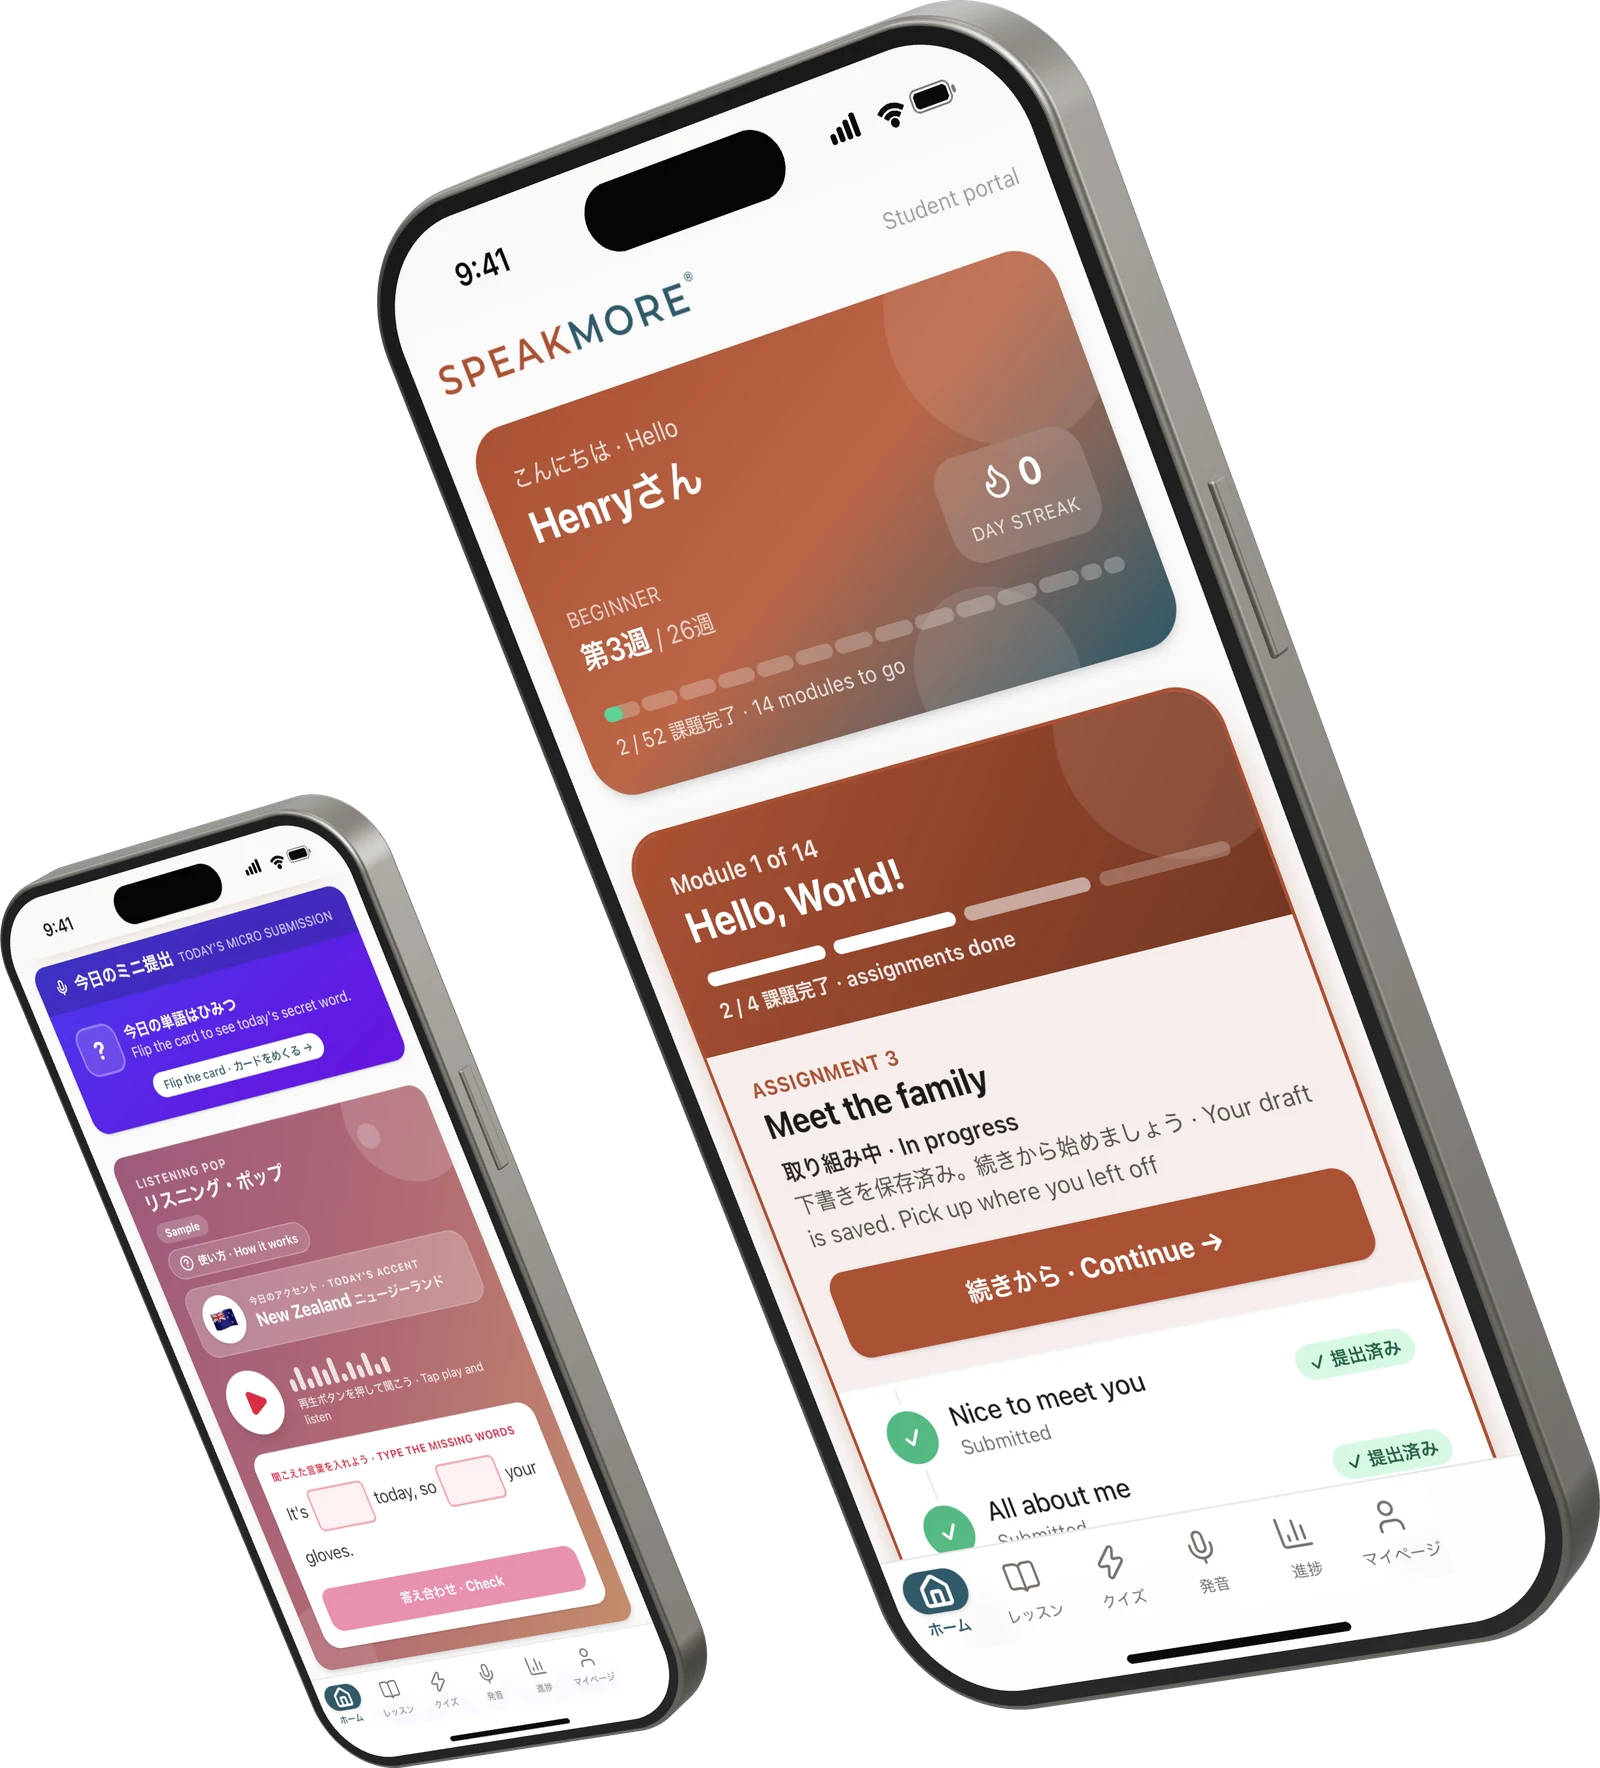
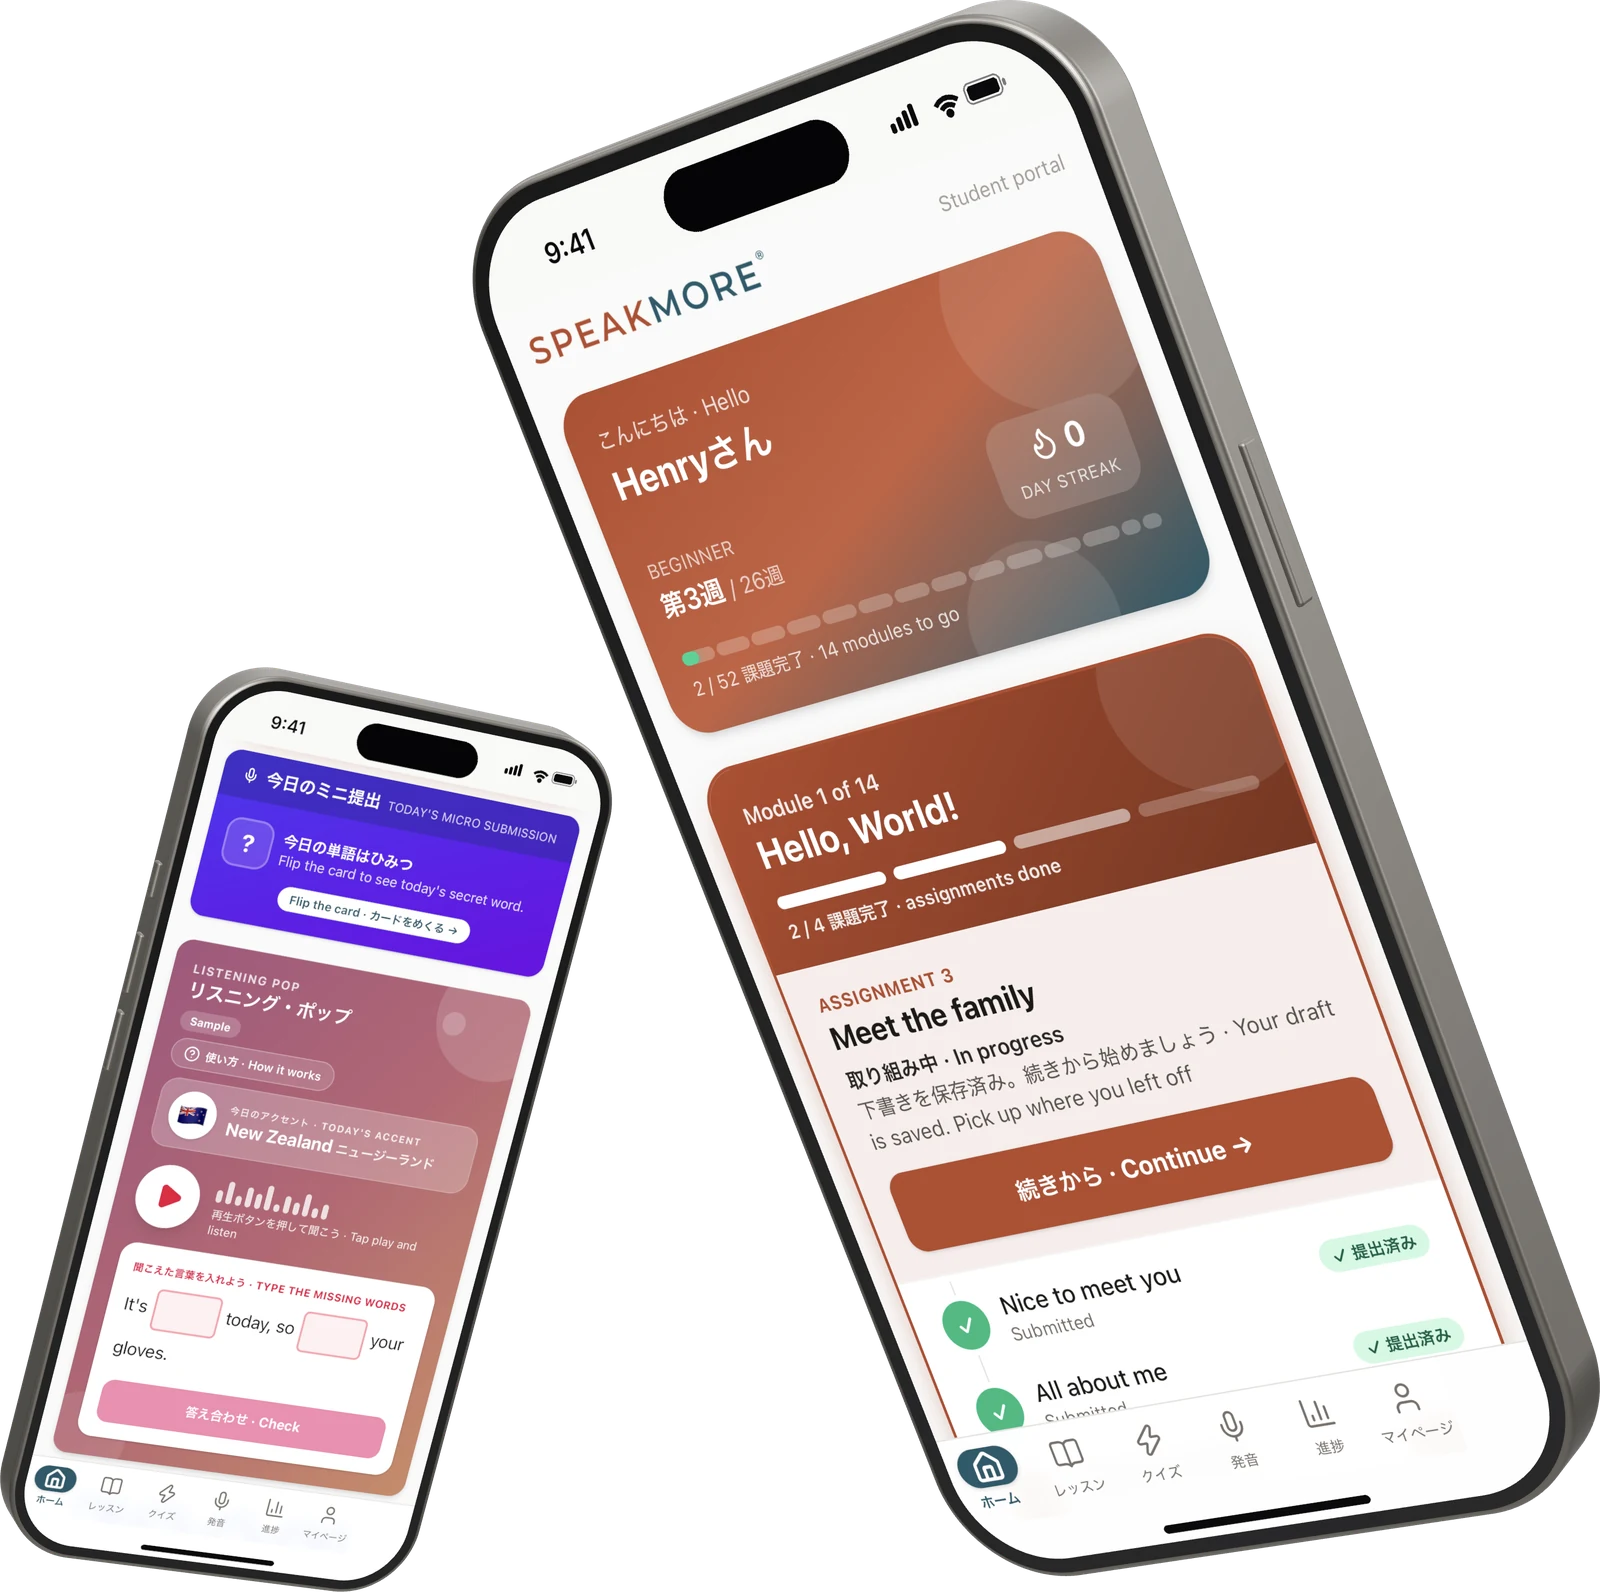
Subscription hero: back phone turned toward the front one, phones no longer cropped
Re-rendered the phones with the smaller one angled toward the large one.
The image now sits in the normal flow so the panel grows to hold it and
the bottoms are never clipped, at any width.

Claude-Session: https://claude.ai/code/session_01XUqHdmboNRHjMGKY1u6cpk

diff --git a/assets/css/styles.css b/assets/css/styles.css
@@ -7181,16 +7181,19 @@ a.rebrand__suite-crest:hover { transform: translateY(-3px); opacity: .85; }
 .sub-laurel__num { position: relative; font-family: var(--font-en); font-size: clamp(1.05rem, 4vw, 1.65rem); line-height: 1; letter-spacing: 0; }
 .sub-laurel__num small { font-size: 0.5em; margin-left: 1px; }
 
-.sub-hero__phones { position: relative; margin: var(--sp-2) calc(clamp(28px, 5vw, 64px) * -0.6) calc(clamp(28px, 5vw, 64px) * -1); height: clamp(300px, 84vw, 440px); }
+/* phones sit in the normal flow so the panel always grows to hold them (never cropped at the bottom) */
+.sub-hero__phones { margin: var(--sp-2) 0 0; }
 .sub-hero__phones img {
-  position: absolute; top: 0; left: 50%; transform: translateX(-50%);
-  width: min(100%, 420px); height: auto; max-width: none;
+  display: block; width: min(100%, 440px); height: auto; margin: 0 auto;
   filter: drop-shadow(18px 30px 28px rgba(5, 24, 30, 0.45));
 }
 @media (min-width: 960px) {
-  .sub-hero__phones { height: auto; align-self: stretch; min-height: 540px; margin: 0 0 calc(clamp(28px, 5vw, 64px) * -1); }
-  .sub-hero__phones img { top: -125px; left: auto; right: -13%; transform: none; width: 138%; }
+  .sub-hero__phones { margin: -60px -6% 0 -4%; align-self: center; }
+  .sub-hero__phones img { width: 100%; max-width: none; }
   .sub-hero__lede { max-width: 26em; }
+}
+@media (min-width: 1200px) {
+  .sub-hero__phones { margin: -190px -14% -20px -26%; }
 }
 
 .sub-phone {

diff --git a/pages/subscription.html b/pages/subscription.html
@@ -25,7 +25,7 @@
   <link rel="preconnect" href="https://fonts.gstatic.com" crossorigin="">
   <link rel="stylesheet" href="https://fonts.googleapis.com/css2?family=Archivo+Black&amp;family=Bebas+Neue&amp;family=Noto+Sans+JP:wght@300;400;500;700&amp;display=swap">
 
-  <link rel="stylesheet" href="../assets/css/styles.css?v=329">
+  <link rel="stylesheet" href="../assets/css/styles.css?v=330">
   <!-- Canonical + social share -->
   <link rel="canonical" href="https://speakmore.jp/pages/subscription">
   <meta property="og:type" content="website">
@@ -99,7 +99,7 @@
 
         <!-- 3D render of two phones showing real portal screenshots (rebuilt from the screenshots; see commit message) -->
         <div class="sub-hero__phones" aria-hidden="true">
-          <img src="../assets/img/subscription-hero-phones.webp?v=3" alt="" width="1600" height="1768">
+          <img src="../assets/img/subscription-hero-phones.webp?v=4" alt="" width="1600" height="1592">
         </div>
       </div>
     </div>
